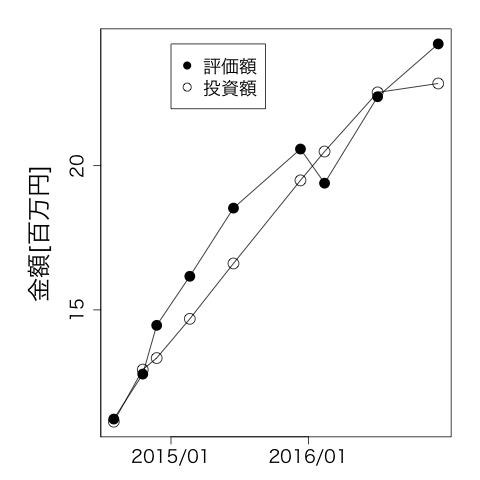
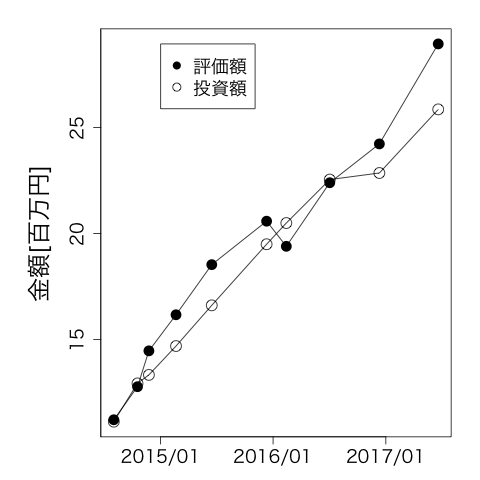
update

diff --git a/investment_return.md b/investment_return.md
@@ -21,3 +21,4 @@ permalink: /investment_return/
 2/13/2016|20,490,447|19,393,040|-1,097,407|-5.36%
 7/3/2016|22,540,773|22,390,274|-150,500|-0.67%
 12/11/2016|22,849,470|24,221,537|1,372,067|6.00%
+6/20/2017|25,849,178|28,935,936|3,086,758|11.94%
